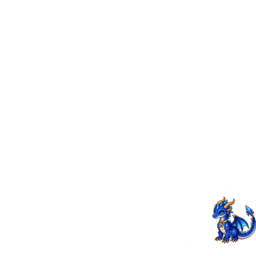
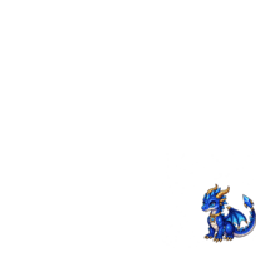
Fix choice questions and add final outfit set

Changed region(s): [[0.7812, 0.7188, 1.0, 0.9688]]

diff --git a/math-practice.js b/math-practice.js
@@ -3,8 +3,8 @@
   const game=document.querySelector('#game-screen');if(!game)return;
   const ID='math-arithmetic',auth=()=>window.StudyVillageAuth?.authHeaders?.()||{},player=()=>document.querySelector('#profile-name')?.textContent?.trim()||'',checkpoint=()=>window.StudyVillageCheckpoint;
   let sessionId='',problems=[],answers=[],index=0,busy=false;
-  const panel=document.createElement('section');panel.className='math-practice-panel';panel.hidden=true;panel.innerHTML='<div class="math-practice-card"><button class="quiz-close" type="button">✕</button><span class="library-badge">➕ 배움터 수학</span><h2>3학년 랜덤 복습</h2><div class="library-status"><span data-progress></span><strong data-unit>랜덤 5문제</strong></div><p class="math-prompt"></p><input class="library-answer-input" type="text" inputmode="numeric" autocomplete="off" placeholder="정답 입력"><p class="library-feedback"></p><div data-review hidden style="display:grid;gap:8px;margin:12px 0;max-height:34vh;overflow:auto"></div><button class="interior-primary" type="button" data-submit>정답 제출</button></div>';game.appendChild(panel);
-  const close=panel.querySelector('.quiz-close'),progress=panel.querySelector('[data-progress]'),unit=panel.querySelector('[data-unit]'),prompt=panel.querySelector('.math-prompt'),input=panel.querySelector('input'),feedback=panel.querySelector('.library-feedback'),review=panel.querySelector('[data-review]'),submit=panel.querySelector('[data-submit]');
+  const panel=document.createElement('section');panel.className='math-practice-panel';panel.hidden=true;panel.innerHTML='<div class="math-practice-card"><button class="quiz-close" type="button">✕</button><span class="library-badge">➕ 배움터 수학</span><h2>3학년 랜덤 복습</h2><div class="library-status"><span data-progress></span><strong data-unit>랜덤 5문제</strong></div><p class="math-prompt"></p><div data-math-options hidden></div><input class="library-answer-input" type="text" inputmode="numeric" autocomplete="off" placeholder="정답 입력"><p class="library-feedback"></p><div data-review hidden style="display:grid;gap:8px;margin:12px 0;max-height:34vh;overflow:auto"></div><button class="interior-primary" type="button" data-submit>정답 제출</button></div>';game.appendChild(panel);
+  const close=panel.querySelector('.quiz-close'),progress=panel.querySelector('[data-progress]'),unit=panel.querySelector('[data-unit]'),prompt=panel.querySelector('.math-prompt'),options=panel.querySelector('[data-math-options]'),input=panel.querySelector('input'),feedback=panel.querySelector('.library-feedback'),review=panel.querySelector('[data-review]'),submit=panel.querySelector('[data-submit]');
   const explorationOpen=()=>document.body.classList.contains('study-expedition-active')||[...document.querySelectorAll('#student-explore-panel,#study-expedition-stage')].some(el=>el&&!el.hidden&&el.getClientRects().length>0);
   async function fetchJson(url,options={}){const controller=new AbortController(),timer=setTimeout(()=>controller.abort(),5000);try{const response=await fetch(url,{...options,headers:{...auth(),...(options.headers||{})},signal:controller.signal}),data=await response.json().catch(()=>({}));if(!response.ok||!data.ok)throw Object.assign(new Error(data.message||data.code||'request-failed'),{code:data.code,message:data.message||data.code});return data}finally{clearTimeout(timer)}}
   function saveCheckpoint(){if(sessionId&&player()&&checkpoint())checkpoint().save(player(),ID,{sessionId,problems,index,answers})}
@@ -12,11 +12,12 @@
   function returnVillage(){panel.hidden=true;window.dispatchEvent(new Event('studyvillage:return-to-village'))}
   function clearReview(){review.hidden=true;review.innerHTML='';panel.querySelectorAll('.math-result-review').forEach(node=>node.remove())}
   function isQr(problem){return problem?.answerFormat==='quotient-remainder'}
+  function isChoice(problem){return problem?.type==='choice'||problem?.answerFormat==='choice'}
   function qrLooksValid(value){return /^-?\d+\s*(?:,\s*|\s+나머지\s+|\s+)\s*-?\d+$/.test(String(value??'').trim().replace(/\s+/g,' '))}
-  function readAnswer(problem){const raw=String(input.value??'').trim();if(isQr(problem)){if(!qrLooksValid(raw))return{ok:false,message:'몫과 나머지를 입력해 주세요. 예) 44, 1'};return{ok:true,value:raw}}const value=Number(raw);if(!Number.isInteger(value)||Math.abs(value)>1000000)return{ok:false,message:'정수를 입력해 주세요.'};return{ok:true,value}}
-  function render(){clearReview();const problem=problems[index];progress.textContent=`${index+1} / ${problems.length}`;unit.textContent=problem?.unit||'3학년 복습';prompt.textContent=problem?.prompt||'';input.hidden=false;input.type='text';input.inputMode=isQr(problem)?'text':'numeric';input.placeholder=isQr(problem)?(problem.inputHint||'예) 44, 1'):'정답 입력';input.value=answers[index]??'';input.disabled=false;submit.disabled=false;submit.textContent=index===problems.length-1?'채점하고 완료':'정답 저장하고 다음';feedback.className='library-feedback';feedback.textContent=isQr(problem)?'몫과 나머지는 쉼표, 공백, “나머지” 표현 모두 사용할 수 있어요.':'';setTimeout(()=>input.focus(),0);saveCheckpoint()}
+  function readAnswer(problem){if(isChoice(problem)){const value=Number(answers[index]);return Number.isInteger(value)&&value>=0&&value<(problem.options?.length||0)?{ok:true,value}:{ok:false,message:'답을 하나 골라 주세요.'}}const raw=String(input.value??'').trim();if(isQr(problem)){if(!qrLooksValid(raw))return{ok:false,message:'몫과 나머지를 입력해 주세요. 예) 44, 1'};return{ok:true,value:raw}}const value=Number(raw);if(!Number.isInteger(value)||Math.abs(value)>1000000)return{ok:false,message:'정수를 입력해 주세요.'};return{ok:true,value}}
+  function render(){clearReview();const problem=problems[index],choice=isChoice(problem);progress.textContent=`${index+1} / ${problems.length}`;unit.textContent=problem?.unit||'3학년 복습';prompt.textContent=problem?.prompt||'';options.replaceChildren();options.hidden=!choice;options.style.cssText=choice?'display:grid;gap:9px;margin:12px 0':'display:none';input.hidden=choice;input.type='text';input.inputMode=isQr(problem)?'text':'numeric';input.placeholder=isQr(problem)?(problem.inputHint||'예) 44, 1'):'정답 입력';input.value=choice?'':(answers[index]??'');input.disabled=false;submit.disabled=choice&&!Number.isInteger(Number(answers[index]));submit.textContent=index===problems.length-1?'채점하고 완료':'정답 저장하고 다음';feedback.className='library-feedback';feedback.textContent=isQr(problem)?'몫과 나머지는 쉼표, 공백, “나머지” 표현 모두 사용할 수 있어요.':'';if(choice){(problem.options||[]).forEach((label,choiceIndex)=>{const button=document.createElement('button');button.type='button';button.className='quiz-option';button.textContent=String(label);button.setAttribute('aria-pressed',String(Number(answers[index])===choiceIndex));button.onclick=()=>{answers[index]=choiceIndex;options.querySelectorAll('button').forEach((node,nodeIndex)=>node.setAttribute('aria-pressed',String(nodeIndex===choiceIndex)));submit.disabled=false;saveCheckpoint()};options.appendChild(button)})}else setTimeout(()=>input.focus(),0);saveCheckpoint()}
   function showReview(rows=[]){const wrong=rows.filter(row=>row&&!row.correct);review.innerHTML='';if(!wrong.length){review.hidden=false;review.innerHTML='<div style="padding:10px;border-radius:12px;background:#eef8ec;font-weight:800">🏆 틀린 문제가 없어요. 모두 정확하게 풀었어요!</div>';return}const title=document.createElement('strong');title.textContent=`틀린 문제 다시 보기 · ${wrong.length}문제`;review.appendChild(title);for(const row of wrong){const card=document.createElement('div');card.style.cssText='padding:10px;border:1px solid #e2e6df;border-radius:12px;background:#fff';const q=document.createElement('b'),mine=document.createElement('div'),answer=document.createElement('div'),why=document.createElement('div');q.textContent=`${row.number}. ${row.prompt}`;mine.textContent=`내 답: ${row.studentAnswer}`;answer.textContent=`정답: ${row.answer}`;why.textContent=`풀이: ${row.explanation||'문제의 수와 단위를 차례로 다시 확인해 보세요.'}`;why.style.marginTop='4px';card.append(q,mine,answer,why);review.appendChild(card)}review.hidden=false}
   async function start(){if(busy||!panel.hidden||explorationOpen())return;busy=true;try{const allowance=await fetchJson('/api/player/me/activity-attempt-status/'+ID);const dailyLimit=Math.max(1,Number(allowance.policy?.limit)||1);if(!allowance.allowed){alert(`오늘의 수학 랜덤 복습 ${dailyLimit}회와 추가 도전권을 모두 사용했어요. 선생님이 추가 도전권을 줄 수 있어요.`);return}unit.textContent=`랜덤 5문제 · 하루 ${dailyLimit}회`;const saved=player()&&checkpoint()?checkpoint().load(player(),ID)?.progress:null;if(saved?.sessionId&&Array.isArray(saved.problems)&&saved.problems.length===5&&confirm(`이전에 풀던 수학 복습을 ${Number(saved.index)+1}번부터 이어갈까요?`)){sessionId=saved.sessionId;problems=saved.problems;answers=Array.isArray(saved.answers)?saved.answers:[];index=Math.max(0,Math.min(4,Number(saved.index)||0))}else{if(saved)clearCheckpoint();const data=await fetchJson('/api/player/me/math-practice/start',{method:'POST'});sessionId=data.sessionId;problems=data.problems;answers=[];index=0}panel.hidden=false;render()}catch(error){alert(error.code==='no-math-playground-unit-enabled'?'선생님이 체크한 수학 단원 중 수학 놀이터에서 자동으로 만들 수 있는 문제가 아직 없어요.':'수학 복습 문제를 준비하지 못했어요. 교실 서버 연결을 확인해 주세요.')}finally{busy=false}}
-  async function next(){if(busy)return;const parsed=readAnswer(problems[index]);if(!parsed.ok)return alert(parsed.message);answers[index]=parsed.value;if(index<problems.length-1){index++;render();return}busy=true;input.disabled=true;submit.disabled=true;feedback.textContent='서버가 정답을 채점하고 있어요.';saveCheckpoint();try{const graded=await fetchJson(`/api/player/me/math-practice/${encodeURIComponent(sessionId)}/answers`,{method:'POST',headers:{'Content-Type':'application/json'},body:JSON.stringify({answers})});const saved=await fetchJson('/api/player/me/activity',{method:'POST',headers:{'Content-Type':'application/json'},body:JSON.stringify({activityId:ID,score:graded.score,submissionId:graded.submissionId})});clearCheckpoint();window.StudyVillageSound?.play('complete');feedback.className='library-feedback success';feedback.textContent=`${graded.total}문제 중 ${graded.correct}문제 정답 · ${graded.score}점 · +${Number(saved.gainedXp)||0} XP`;prompt.textContent='수학 랜덤 복습 완료! 🎉';unit.textContent='틀린 문제는 아래에서 바로 확인해요';input.hidden=true;showReview(Array.isArray(graded.review)?graded.review:[]);submit.disabled=false;submit.textContent='배움터로 돌아가기';submit.onclick=()=>{returnVillage();clearReview();input.hidden=false;submit.onclick=next};window.dispatchEvent(new Event('studyvillage:activity-record-refresh'));window.dispatchEvent(new Event('studyvillage:stars-refresh'))}catch(error){feedback.className='library-feedback error';feedback.textContent=error.code==='math-session-not-found'?'이어하기 시간이 지나 새 문제로 다시 시작해야 해요.':'결과를 저장하지 못했어요. 다시 눌러 주세요.';submit.disabled=false;submit.textContent=error.code==='math-session-not-found'?'새 연습 시작':'채점 다시 시도';if(error.code==='math-session-not-found')submit.onclick=()=>{clearCheckpoint();returnVillage();submit.onclick=next;start()}}finally{busy=false}}
+  async function next(){if(busy)return;const parsed=readAnswer(problems[index]);if(!parsed.ok)return alert(parsed.message);answers[index]=parsed.value;if(index<problems.length-1){index++;render();return}busy=true;input.disabled=true;submit.disabled=true;feedback.textContent='서버가 정답을 채점하고 있어요.';saveCheckpoint();try{const graded=await fetchJson(`/api/player/me/math-practice/${encodeURIComponent(sessionId)}/answers`,{method:'POST',headers:{'Content-Type':'application/json'},body:JSON.stringify({answers})});const saved=await fetchJson('/api/player/me/activity',{method:'POST',headers:{'Content-Type':'application/json'},body:JSON.stringify({activityId:ID,score:graded.score,submissionId:graded.submissionId})});clearCheckpoint();window.StudyVillageSound?.play('complete');feedback.className='library-feedback success';feedback.textContent=`${graded.total}문제 중 ${graded.correct}문제 정답 · ${graded.score}점 · +${Number(saved.gainedXp)||0} XP`;prompt.textContent='수학 랜덤 복습 완료! 🎉';unit.textContent='틀린 문제는 아래에서 바로 확인해요';input.hidden=true;options.style.display='none';showReview(Array.isArray(graded.review)?graded.review:[]);submit.disabled=false;submit.textContent='배움터로 돌아가기';submit.onclick=()=>{returnVillage();clearReview();input.hidden=false;options.style.display='none';submit.onclick=next};window.dispatchEvent(new Event('studyvillage:activity-record-refresh'));window.dispatchEvent(new Event('studyvillage:stars-refresh'))}catch(error){feedback.className='library-feedback error';feedback.textContent=error.code==='math-session-not-found'?'이어하기 시간이 지나 새 문제로 다시 시작해야 해요.':'결과를 저장하지 못했어요. 다시 눌러 주세요.';submit.disabled=false;submit.textContent=error.code==='math-session-not-found'?'새 연습 시작':'채점 다시 시도';if(error.code==='math-session-not-found')submit.onclick=()=>{clearCheckpoint();returnVillage();submit.onclick=next;start()}}finally{busy=false}}
   submit.onclick=next;input.addEventListener('keydown',event=>{if(event.key==='Enter'){event.preventDefault();submit.click()}});close.onclick=()=>{if(!busy){clearReview();input.hidden=false;returnVillage()}};window.addEventListener('studyvillage:open-math-practice',start)
 })();

diff --git a/index.html b/index.html
@@ -6,7 +6,7 @@
     <title>우리 학습마을</title>
     <link rel="stylesheet" href="style.css?v=20260827r11" />
     <link rel="stylesheet" href="avatar-assets.css?v=20260901r6" />
-    <link rel="stylesheet" href="building-interiors.css?v=20260823a" />
+    <link rel="stylesheet" href="building-interiors.css?v=20260902r1" />
     <link rel="stylesheet" href="library-game.css?v=20260828v4" />
     <link rel="stylesheet" href="activity-records.css" />
     <link rel="stylesheet" href="assets/ui-feedback-polish.css?v=20260827a" />
@@ -29,6 +29,6 @@
         <footer class="mobile-controls"><button id="talk-button" class="talk-button">✨ 상호작용</button></footer>
       </section>
     </main>
-    <script src="auth.js?v=20260831r1"></script><script src="error-reporter.js"></script><script src="student-single-session.js"></script><script src="presence.js"></script><script src="live-events.js"></script><script src="data-service.js?v=20260823a"></script><script src="activity-checkpoint.js"></script><script src="activity-gate.js?v=20260828b"></script><script src="sound-effects.js?v=20260827v2"></script><script src="game.js?v=20260828v3"></script><script src="student-session.js?v=20260830r2"></script><script src="avatar-renderer.js?v=20260901heads1"></script><script src="assets/avatar-base-variants-v1.js?v=20260901heads1"></script><script src="assets/avatar-special-outfit-overhaul-v2.js?v=20260830a"></script><script src="assets/avatar-visual-overhaul-v1.js?v=20260830a"></script><script src="assets/avatar-simple-sets-v1.js?v=20260830a"></script><script src="avatar-motion.js"></script><script src="avatar-growth-effects.js?v=20260822c"></script><script src="world-camera.js"></script><script src="village-layout.js?v=20260823a"></script><script src="random-npcs.js"></script><script src="random-exploration-events.js"></script><script src="building-interiors.js?v=20260830a"></script><script src="math-practice.js?v=20260830r4"></script><script src="question-data.js?v=20260825r9"></script><script src="curriculum-question-bank.js?v=20260827v1"></script><script src="assets/curriculum-content-expansion.js?v=20260828v1"></script><script src="question-response.js"></script><script src="assets/student-question-overrides.js?v=20260827v2"></script><script src="library-game.js?v=20260830save1"></script><script src="activity-taxonomy.js"></script><script src="daily-missions.js?v=20260901r2"></script><script src="exploration-collection.js?v=20260901r2"></script><script src="activity-records.js"></script><script src="student-result-profile-sync.js"></script><script src="customize.js?v=20260830r4"></script><script src="assets/avatar-fullbody-fix.js?v=20260826rpg3"></script><script src="assets/avatar-basic-pack-v3.js?v=20260826v3"></script><script src="assets/avatar-secondary-sync-v2.js?v=20260827v4"></script><script src="assets/student-shop-ownership-compat.js?v=20260823a"></script><script src="student-shop.js?v=20260901r7"></script><script src="onboarding.js?v=20260820c"></script><script src="connection-status.js"></script><script src="session-restore.js"></script><script src="assets/expedition-entry-guard.js?v=20260823a"></script><script src="assets/student-exploration-subject-pools.js?v=20260829v7"></script><script src="assets/student-exploration-v2.js?v=20260901r6"></script><script src="assets/student-overlay-manager.js?v=20260828c"></script><script src="assets/student-stability-fixes.js?v=20260830r5"></script><script src="assets/ui-feedback-polish.js?v=20260829c"></script>
+    <script src="auth.js?v=20260831r1"></script><script src="error-reporter.js"></script><script src="student-single-session.js"></script><script src="presence.js"></script><script src="live-events.js"></script><script src="data-service.js?v=20260823a"></script><script src="activity-checkpoint.js"></script><script src="activity-gate.js?v=20260828b"></script><script src="sound-effects.js?v=20260827v2"></script><script src="game.js?v=20260828v3"></script><script src="student-session.js?v=20260830r2"></script><script src="avatar-renderer.js?v=20260902outfits1"></script><script src="assets/avatar-base-variants-v1.js?v=20260901heads1"></script><script src="assets/avatar-special-outfit-overhaul-v2.js?v=20260830a"></script><script src="assets/avatar-visual-overhaul-v1.js?v=20260830a"></script><script src="assets/avatar-simple-sets-v1.js?v=20260830a"></script><script src="avatar-motion.js"></script><script src="avatar-growth-effects.js?v=20260822c"></script><script src="world-camera.js"></script><script src="village-layout.js?v=20260823a"></script><script src="random-npcs.js"></script><script src="random-exploration-events.js"></script><script src="building-interiors.js?v=20260830a"></script><script src="math-practice.js?v=20260902r1"></script><script src="question-data.js?v=20260902r1"></script><script src="curriculum-question-bank.js?v=20260827v1"></script><script src="assets/curriculum-content-expansion.js?v=20260828v1"></script><script src="question-response.js"></script><script src="assets/student-question-overrides.js?v=20260827v2"></script><script src="library-game.js?v=20260830save1"></script><script src="activity-taxonomy.js"></script><script src="daily-missions.js?v=20260901r2"></script><script src="exploration-collection.js?v=20260901r2"></script><script src="activity-records.js"></script><script src="student-result-profile-sync.js"></script><script src="customize.js?v=20260830r4"></script><script src="assets/avatar-fullbody-fix.js?v=20260826rpg3"></script><script src="assets/avatar-basic-pack-v3.js?v=20260826v3"></script><script src="assets/avatar-secondary-sync-v2.js?v=20260827v4"></script><script src="assets/student-shop-ownership-compat.js?v=20260823a"></script><script src="student-shop.js?v=20260902r1"></script><script src="onboarding.js?v=20260820c"></script><script src="connection-status.js"></script><script src="session-restore.js"></script><script src="assets/expedition-entry-guard.js?v=20260823a"></script><script src="assets/student-exploration-subject-pools.js?v=20260829v7"></script><script src="assets/student-exploration-v2.js?v=20260901r6"></script><script src="assets/student-overlay-manager.js?v=20260828c"></script><script src="assets/student-stability-fixes.js?v=20260830r5"></script><script src="assets/ui-feedback-polish.js?v=20260829c"></script>
   </body>
 </html>

diff --git a/avatar-basic-pack-contract-selftest.js b/avatar-basic-pack-contract-selftest.js
@@ -17,6 +17,7 @@ const outfitBake=fs.readFileSync(path.join(root,'scripts/bake-avatar-outfit-v2.p
 const previewBake=fs.readFileSync(path.join(root,'scripts/build-avatar-shop-previews.py'),'utf8');
 const baseBake=fs.readFileSync(path.join(root,'scripts/build-avatar-base-heads.py'),'utf8');
 const variantBake=fs.readFileSync(path.join(root,'scripts/build-avatar-character-variants.py'),'utf8');
+const petBake=fs.readFileSync(path.join(root,'scripts/build-avatar-production-pets.py'),'utf8');
 
 for(const phrase of ['기본 캐릭터 변형 → 한벌 의상 → 효과 → 펫','체육관 / 보건실 / 3-1반 교실 / 급식실','마을 전체 그래픽 리디자인'])assert.ok(direction.includes(phrase),`production direction missing: ${phrase}`);
 for(const phrase of ['별도의 `hair` 상품은 더 이상 만들지 않는다','몸체 크기, 목·어깨 위치, 발 중앙, 캔버스 기준점을 완전히 동일하게 유지'])assert.ok(direction.includes(phrase),`base variant direction missing: ${phrase}`);
@@ -32,7 +33,7 @@ for(const id of ['character-boy-02','character-boy-03','character-boy-04','chara
 }
 for(const retiredHair of ['hair-short','hair-bob','hair-ponytail','hair-blue'])assert.ok(!catalog.includes(`'${retiredHair}'`),`standalone hair product must be retired: ${retiredHair}`);
 assert.ok(whole.includes("id:'student-boy'")&&whole.includes("id:'student-girl'"),'the two free basic bodies must remain');
-assert.ok(index.includes('avatar-renderer.js?v=20260901heads1'),'avatar renderer cache version must be refreshed');
+assert.ok(index.includes('avatar-renderer.js?v=20260902outfits1'),'avatar renderer cache version must include the final feminine outfits and larger pets');
 assert.ok(index.includes('avatar-base-variants-v1.js')&&index.includes('avatar-production-contract-v2.css'),'base production gate and production contract assets must load');
 assert.ok(!index.includes('avatar-auto-normalize-v1.js'),'runtime pixel scanning normalizer must stay disabled for classroom performance');
 assert.ok(contract.includes('transform:none!important'),'production contract must remove manual wearable transform corrections');
@@ -40,11 +41,12 @@ assert.ok(contract.includes('Runtime never scans pixels'),'production runtime mu
 const expected=[
   'production/outfits/silver-knight.png','production/outfits/star-mage.png','production/outfits/school-scientist.png',
   'production/outfits/forest-archer.png','production/outfits/pirate-captain.png','production/outfits/moon-priest.png',
+  'production/outfits/starlight-dress.png','production/outfits/flower-fairy-dress.png','production/outfits/ribbon-magical-girl.png',
   'production/pets/maltese.png','production/pets/toy-poodle.png','production/pets/corgi.png',
   'production/pets/cheese-cat.png','production/pets/lop-rabbit.png','production/pets/baby-dragon.png'
 ];
 for(const rel of expected){const full=path.join(root,'assets/avatar-runtime',rel);assert.ok(fs.existsSync(full),`missing production raster: ${rel}`);assert.ok(fs.statSync(full).size>3000,`production raster is unexpectedly small: ${rel}`);assert.ok(renderer.includes(rel),`renderer missing production raster: ${rel}`)}
-for(const name of ['silver-knight.png','star-mage.png','school-scientist.png','forest-archer.png','pirate-captain.png','moon-priest.png']){
+for(const name of ['silver-knight.png','star-mage.png','school-scientist.png','forest-archer.png','pirate-captain.png','moon-priest.png','starlight-dress.png','flower-fairy-dress.png','ribbon-magical-girl.png']){
   const rel=`production/shop-previews/${name}`,full=path.join(root,'assets/avatar-runtime',rel);
   assert.ok(fs.existsSync(full)&&fs.statSync(full).size>3000,`missing baked one-layer shop preview: ${rel}`);
 }
@@ -64,6 +66,7 @@ assert.ok(outfitBake.includes('Never split or non-uniformly warp a finished outf
 assert.ok(outfitBake.includes('def normalize_uniform_body_scale'),'production bake must use one seam-free uniform template fit');
 assert.ok(!outfitBake.includes("img.crop((0, source_y"),'production bake must not split completed outfit artwork at the neckline');
 assert.ok(outfitBake.includes('SOURCE_OUTFIT_DIR'),'production bake must always rebuild from immutable source art');
+assert.ok(petBake.includes('SOURCE_DIR')&&petBake.includes('SCALE = 1.25'),'production pets must rebuild from preserved originals at the approved larger scale');
 assert.ok(outfitBake.includes('step = round(TARGET_BODY_CENTROID - current_x)'),'mass-production bake must normalize X automatically');
 for(const itemSpecific of ['SOURCE_X_ADJUST','NECKLINE_RAISE'])assert.ok(!outfitBake.includes(itemSpecific),`item-specific correction must not remain: ${itemSpecific}`);
 assert.ok(!fs.existsSync(path.join(root,'server/avatar-shop-pack-v5.js')),'temporary v5 catalog must be removed');
@@ -73,6 +76,6 @@ assert.ok(shop.includes("SELECT level,stars,base_character"),'shop state must ex
 assert.ok(shop.includes('baseCharacter'),'shop state must return the equipped base character');
 assert.ok(studentShop.includes('paintProductPreview(b,item,data.baseCharacter)'),'outfit previews must use the student\'s equipped male/female head');
 assert.ok(studentShop.includes("renderer.BASES?.[baseCharacter]?baseCharacter:'student-boy'"),'shop preview must safely normalize its base character');
-assert.ok(index.includes('student-shop.js?v=20260901r7'),'female outfit preview change must bypass classroom cache');
+assert.ok(index.includes('student-shop.js?v=20260902r1'),'female outfit preview and new catalog icons must bypass classroom cache');
 assert.ok(customize.includes("info.slot==='character'"),'wardrobe must retain future base-character immediate equip support');
 console.log('production avatar lightweight runtime contract passed');

diff --git a/avatar-renderer.js b/avatar-renderer.js
@@ -56,7 +56,8 @@ window.StudyVillageAvatar=(()=>{
     'hand-sword':{src:`${RPG}hand-star-sword-rpg-v7.png`,alt:'별보석 모험가 검'},'hand-wand':{src:`${RPG}hand-starlight-wand-rpg-v8.png`,alt:'별빛 수정 지팡이'},'hand-book':{svg:hand('book','#315f91')},'hand-magnifier':{svg:hand('magnifier','#294f79')},
     'pet-chick':{svg:pet('chick','#f4d544')},'pet-cat':{svg:pet('cat','#e59a43')},'pet-owl':{svg:pet('owl','#9a6d45')},'pet-fox':{svg:pet('fox','#e47739')},'pet-dog':{svg:pet('dog','#b87946')},'pet-rabbit':{svg:pet('rabbit','#eee5df')},'pet-dragon':{src:`${RPG}pet-star-dragon-rpg-v8.png`,alt:'별무늬 꼬마 용 친구'},'pet-slime':{svg:pet('slime','#63c67a')},
     'outfit-silver-knight':{src:`${RPG}production/outfits/silver-knight.png`,onePiece:true,alt:'은빛 수호 기사 한벌 의상'},'outfit-star-mage-production':{src:`${RPG}production/outfits/star-mage.png`,onePiece:true,alt:'별자리 마법사 한벌 의상'},'outfit-school-scientist':{src:`${RPG}production/outfits/school-scientist.png`,onePiece:true,alt:'푸른빛 과학자 한벌 의상'},'outfit-forest-archer-production':{src:`${RPG}production/outfits/forest-archer.png`,onePiece:true,alt:'초록 숲 궁수 한벌 의상'},'outfit-pirate-captain-production':{src:`${RPG}production/outfits/pirate-captain.png`,onePiece:true,alt:'붉은 해적 선장 한벌 의상'},'outfit-moon-priest-production':{src:`${RPG}production/outfits/moon-priest.png`,onePiece:true,alt:'달빛 사제 한벌 의상'},
-    'pet-maltese-production':{src:`${RPG}production/pets/maltese.png`,alt:'하얀 말티즈'},'pet-toy-poodle-production':{src:`${RPG}production/pets/toy-poodle.png`,alt:'살구 토이푸들'},'pet-corgi-production':{src:`${RPG}production/pets/corgi.png`,alt:'통통 웰시코기'},'pet-cheese-cat-production':{src:`${RPG}production/pets/cheese-cat.png`,alt:'치즈 줄무늬 고양이'},'pet-lop-rabbit-production':{src:`${RPG}production/pets/lop-rabbit.png`,alt:'크림 롭이어 토끼'},'pet-baby-dragon-production':{src:`${RPG}production/pets/baby-dragon.png`,alt:'사파이어 꼬마 용'}
+    'outfit-starlight-dress-production':{src:`${RPG}production/outfits/starlight-dress.png`,onePiece:true,alt:'별빛 드레스 한벌 의상'},'outfit-flower-fairy-production':{src:`${RPG}production/outfits/flower-fairy-dress.png`,onePiece:true,alt:'꽃요정 원피스 한벌 의상'},'outfit-ribbon-magical-girl-production':{src:`${RPG}production/outfits/ribbon-magical-girl.png`,onePiece:true,alt:'리본 마법소녀 한벌 의상'},
+    'pet-maltese-production':{src:`${RPG}production/pets/maltese.png?v=20260902large1`,alt:'하얀 말티즈'},'pet-toy-poodle-production':{src:`${RPG}production/pets/toy-poodle.png?v=20260902large1`,alt:'살구 토이푸들'},'pet-corgi-production':{src:`${RPG}production/pets/corgi.png?v=20260902large1`,alt:'통통 웰시코기'},'pet-cheese-cat-production':{src:`${RPG}production/pets/cheese-cat.png?v=20260902large1`,alt:'치즈 줄무늬 고양이'},'pet-lop-rabbit-production':{src:`${RPG}production/pets/lop-rabbit.png?v=20260902large1`,alt:'크림 롭이어 토끼'},'pet-baby-dragon-production':{src:`${RPG}production/pets/baby-dragon.png?v=20260902large1`,alt:'사파이어 꼬마 용'}
   };
   function paint(element,spec){if(!element)return;element.replaceChildren();element.classList.toggle('image-asset',!!spec?.src);element.classList.toggle('svg-asset',!!spec?.svg);if(spec?.svg)element.innerHTML=spec.svg;else if(spec?.src){const img=document.createElement('img');img.src=spec.src;img.alt=spec.alt||'';img.draggable=false;element.appendChild(img)}else element.textContent=spec?.emoji||''}
   function base(id='student-default'){return BASES[id]||BASES['student-default']}

diff --git a/building-interiors.css b/building-interiors.css
@@ -1,1 +1,4 @@
 #building-interior{position:absolute;inset:64px 0 0;z-index:90;background:linear-gradient(#f8efd8,#ead8b4);display:grid;place-items:center;padding:24px}#building-interior[hidden]{display:none}.interior-room{position:relative;width:min(760px,92vw);min-height:480px;padding:42px;text-align:center;border:10px solid #fff;border-radius:36px;background:#fffaf0;box-shadow:0 24px 60px #233a2840;overflow:hidden}.interior-room:before{content:"";position:absolute;left:0;right:0;bottom:0;height:110px;background:repeating-linear-gradient(90deg,#d7b47b 0 60px,#e1c18e 60px 120px);z-index:0}.interior-room>*{position:relative;z-index:1}.interior-exit{position:absolute;left:22px;top:22px;border:0;border-radius:14px;padding:10px 14px;background:#e8f2e1;color:#315d3b;font-weight:900;cursor:pointer}.interior-icon{font-size:92px;margin-top:25px}.interior-label{display:inline-block;margin-top:8px;padding:5px 10px;border-radius:999px;background:#8d7bd1;color:white;font-size:12px;font-weight:900}.interior-room h2{margin:12px 0 8px;font-size:38px;color:#3f5d42}.interior-room p{font-weight:700;color:#637065}.interior-primary{margin-top:18px;border:0;border-radius:18px;padding:16px 24px;background:#ffcc4d;color:#573e00;font-size:20px;font-weight:900;cursor:pointer;box-shadow:0 6px 0 #d99d18}.interior-coming{display:inline-block;margin-top:18px;padding:12px 16px;border-radius:15px;background:#f1f5ef}.interior-decor{display:flex;justify-content:space-around;margin-top:52px;font-size:42px}.math-practice-panel{position:fixed;inset:0;z-index:260;display:grid;place-items:center;padding:16px;background:#24362975;backdrop-filter:blur(3px);overflow:auto}.math-practice-panel[hidden]{display:none}.math-practice-card{position:relative;width:min(560px,92vw);max-height:calc(100dvh - 32px);overflow:auto;padding:30px;border:6px solid #fff;border-radius:28px;background:#fffdf4;box-shadow:0 22px 55px #1f35264d}.math-practice-card>.quiz-close{position:absolute;right:20px;top:20px}.math-practice-card h2{color:#315d3b}.math-prompt{text-align:center;font-size:clamp(36px,8vw,62px);font-weight:1000;color:#473d7a}.math-practice-card .library-answer-input{width:100%;box-sizing:border-box;font-size:28px;text-align:center}.mobile-controls{display:none!important}.near-building-interaction #interaction-hint{opacity:0}@media(max-width:700px),(pointer:coarse){#building-interior{inset:56px 0 0;padding:10px}.interior-room{min-height:360px;padding:30px 18px}.interior-icon{font-size:68px}.interior-room h2{font-size:30px}.interior-decor{margin-top:30px;font-size:30px}.math-practice-panel{padding:8px;align-items:start}.math-practice-card{width:min(620px,96vw);max-height:calc(100dvh - 16px);padding:20px 16px}.math-practice-card h2{margin:8px 48px 10px 0;font-size:24px}.math-prompt{margin:12px 0;font-size:clamp(30px,7vw,48px)}}
+/* Math choice questions use the same large tap target as exploration quizzes. */
+[data-math-options] .quiz-option{width:100%;padding:13px 15px;text-align:left;border:3px solid #e5e0f8;border-radius:15px;background:#fff;color:#3d356b;font-weight:900;cursor:pointer}
+[data-math-options] .quiz-option[aria-pressed="true"]{border-color:#73b85e;background:#e9f7e5;color:#295c34;box-shadow:0 0 0 2px #cce8c4}

diff --git a/student-shop.js b/student-shop.js
@@ -1,7 +1,7 @@
 /* v1.15 student star shop: base character / one-piece outfit / effect / pet production categories. */
 (()=>{
   const game=document.querySelector('#game-screen'),shopButton=document.querySelector('#shop-button');if(!game||!shopButton)return;
-  const icons={'character-boy-02':'👦','character-boy-03':'👦','character-boy-04':'👦','character-boy-05':'👦','character-girl-02':'👧','character-girl-03':'👧','character-girl-04':'👧','character-girl-05':'👧','outfit-silver-knight':'🛡','outfit-star-mage-production':'🪄','outfit-school-scientist':'🔬','outfit-forest-archer-production':'🏹','outfit-pirate-captain-production':'🏴☠','outfit-moon-priest-production':'🌙','pet-maltese-production':'🐶','pet-toy-poodle-production':'🐩','pet-corgi-production':'🐶','pet-cheese-cat-production':'🐱','pet-lop-rabbit-production':'🐰','pet-baby-dragon-production':'🐲','aurora-effect':'🌈','candy':'🍬','stationery':'✏'};
+  const icons={'character-boy-02':'👦','character-boy-03':'👦','character-boy-04':'👦','character-boy-05':'👦','character-girl-02':'👧','character-girl-03':'👧','character-girl-04':'👧','character-girl-05':'👧','outfit-silver-knight':'🛡','outfit-star-mage-production':'🪄','outfit-school-scientist':'🔬','outfit-forest-archer-production':'🏹','outfit-pirate-captain-production':'🏴☠','outfit-moon-priest-production':'🌙','outfit-starlight-dress-production':'🌟','outfit-flower-fairy-production':'🌸','outfit-ribbon-magical-girl-production':'🎀','pet-maltese-production':'🐶','pet-toy-poodle-production':'🐩','pet-corgi-production':'🐶','pet-cheese-cat-production':'🐱','pet-lop-rabbit-production':'🐰','pet-baby-dragon-production':'🐲','aurora-effect':'🌈','candy':'🍬','stationery':'✏'};
   const headers=()=>window.StudyVillageAuth?.authHeaders?.()||{};
   const esc=v=>String(v??'').replace(/[&<>"']/g,c=>({'&':'&amp;','<':'&lt;','>':'&gt;','"':'&quot;',"'":'&#39;'}[c]));
   const REQUEST_TIMEOUT_MS=5000;

diff --git a/math-practice-server-validation-contract-selftest.js b/math-practice-server-validation-contract-selftest.js
@@ -18,6 +18,8 @@ assert.ok(server.includes('몫과 나머지는?')&&server.includes("answerFormat
 for(const token of ["44, 1","나머지\\s+","answerFormat==='quotient-remainder'",'gradeProblem(problem,value)'])assert.ok(server.includes(token),`remainder normalization contract missing ${token}`);
 assert.ok(!server.includes('44.333'),'decimal quotient must not become the remainder answer convention');
 assert.ok(client.includes("problem?.answerFormat==='quotient-remainder'")&&client.includes('몫과 나머지를 입력해 주세요. 예) 44, 1'),'math playground must switch to quotient/remainder input guidance');
+assert.ok(client.includes("problem?.type==='choice'||problem?.answerFormat==='choice'")&&client.includes("problem.options||[]"),'choice math problems must render their server-issued answer options');
+assert.ok(client.includes("답을 하나 골라 주세요.")&&client.includes("answers[index]=choiceIndex"),'choice math answers must save a selected option index instead of requiring an integer text answer');
 assert.ok(client.includes('내 답: ${row.studentAnswer}')&&client.includes('정답: ${row.answer}'),'wrong-answer review must use server review values for both student and correct answers');
 assert.ok(explore.includes("q.answerFormat==='quotient-remainder'")&&explore.includes('body:JSON.stringify({index,answer})'),'exploration intermediate math check must pass the same raw remainder answer to the server');
 assert.ok(explore.includes("q.type==='choice'")&&server.includes('withExplorationRiddle')&&server.includes('Math.random()>=.1'),'math exploration riddles must be issued and scored by the server at a low probability');

diff --git a/question-input-type-contract-selftest.js b/question-input-type-contract-selftest.js
@@ -3,7 +3,8 @@ const assert=require('assert');
 const data=fs.readFileSync('question-data.js','utf8'),client=fs.readFileSync('library-game.js','utf8'),rules=fs.readFileSync('question-response.js','utf8'),history=fs.readFileSync('server/question-history.js','utf8'),routes=fs.readFileSync('server/question-overrides.js','utf8');
 assert.ok(data.includes("type:'input'"),'bundled learning content must exercise the input question path');
 assert.ok(data.includes("acceptedAnswers:['뿌듯','뿌듯하다','뿌듯한']"),'input questions must accept the stem and clearly shown word forms');
-assert.ok(data.includes("answerGuide:'어간이나 기본형 모두 정답으로 인정해요.'"),'input vocabulary questions must explain the accepted answer form');
+assert.ok(data.includes("answerGuide:'낱말의 기본형이나 자연스러운 활용형으로 써도 돼요.'"),'input vocabulary questions must explain accepted forms without revealing the answer');
+assert.ok(!data.includes('「뿌듯」 또는 「뿌듯하다」'),'the question prompt must never expose its own accepted answer');
 assert.ok(rules.includes("trim().replace(/\\s+/g,' ').toLocaleLowerCase('ko-KR')"),'typed answers must normalize surrounding/repeated spaces and case');
 assert.ok(client.includes("if(item.type==='input')"),'Bookmaru must render input questions separately from choices');
 assert.ok(client.includes("event.key==='Enter'"),'tablet/keyboard Enter must submit a typed answer');

diff --git a/question-data.js b/question-data.js
@@ -10,7 +10,7 @@
       questions:[
         {category:'어휘',word:'다정하다',options:['정이 많고 친절하다','매우 빠르다','소리가 크다','마음이 급하다'],answer:0},
         {category:'어휘',word:'망설이다',options:['바로 행동하다','결정하지 못하고 주저하다','기뻐서 웃다','조용히 기다리다'],answer:1},
-        {category:'어휘',type:'input',word:'보람을 느껴 매우 기쁜 마음을 나타내는 낱말은? (「뿌듯」 또는 「뿌듯하다」처럼 써도 돼요.)',answerGuide:'어간이나 기본형 모두 정답으로 인정해요.',acceptedAnswers:['뿌듯','뿌듯하다','뿌듯한']},
+        {category:'어휘',type:'input',word:'보람을 느껴 매우 기쁜 마음을 나타내는 낱말은?',answerGuide:'낱말의 기본형이나 자연스러운 활용형으로 써도 돼요.',acceptedAnswers:['뿌듯','뿌듯하다','뿌듯한']},
         {category:'어휘',word:'살피다',options:['주의 깊게 자세히 보다','큰 소리로 부르다','빨리 달리다','잠깐 쉬다'],answer:0},
         {category:'어휘',word:'격려하다',options:['잘못을 꾸짖다','힘내도록 용기와 힘을 북돋우다','모르는 척하다','혼자 해결하다'],answer:1}
       ]

diff --git a/server/avatar-shop-pack-v3.js b/server/avatar-shop-pack-v3.js
@@ -5,6 +5,9 @@ const productionItems={
   'outfit-forest-archer-production':{name:'초록 숲 궁수 세트',slot:'outfit',price:52},
   'outfit-pirate-captain-production':{name:'붉은 해적 선장 세트',slot:'outfit',price:55},
   'outfit-moon-priest-production':{name:'달빛 사제 세트',slot:'outfit',price:58},
+  'outfit-starlight-dress-production':{name:'별빛 드레스 세트',slot:'outfit',price:55},
+  'outfit-flower-fairy-production':{name:'꽃요정 원피스 세트',slot:'outfit',price:52},
+  'outfit-ribbon-magical-girl-production':{name:'리본 마법소녀 세트',slot:'outfit',price:58},
   'pet-maltese-production':{name:'하얀 말티즈',slot:'pet',price:35},
   'pet-toy-poodle-production':{name:'살구 토이푸들',slot:'pet',price:38},
   'pet-corgi-production':{name:'통통 웰시코기',slot:'pet',price:38},

diff --git a/scripts/build-avatar-production-pets.py b/scripts/build-avatar-production-pets.py
@@ -1,0 +1,36 @@
+from pathlib import Path
+
+from PIL import Image
+
+
+ROOT = Path(__file__).resolve().parents[1]
+RUNTIME = ROOT / "assets" / "avatar-runtime" / "production"
+SOURCE_DIR = RUNTIME / "sources" / "pets"
+OUTPUT_DIR = RUNTIME / "pets"
+FILES = ["maltese.png", "toy-poodle.png", "corgi.png", "cheese-cat.png", "lop-rabbit.png", "baby-dragon.png"]
+MASTER = 256
+SCALE = 1.25
+RIGHT_MARGIN = 0
+BOTTOM_MARGIN = 8
+
+
+def main() -> None:
+    OUTPUT_DIR.mkdir(parents=True, exist_ok=True)
+    for name in FILES:
+        source = Image.open(SOURCE_DIR / name).convert("RGBA")
+        box = source.getchannel("A").getbbox()
+        if not box:
+            raise RuntimeError(f"{name}: missing visible pet pixels")
+        pet = source.crop(box)
+        size = (round(pet.width * SCALE), round(pet.height * SCALE))
+        pet = pet.resize(size, Image.Resampling.NEAREST)
+        x = MASTER - RIGHT_MARGIN - pet.width
+        y = MASTER - BOTTOM_MARGIN - pet.height
+        output = Image.new("RGBA", (MASTER, MASTER), (0, 0, 0, 0))
+        output.alpha_composite(pet, (x, y))
+        output.save(OUTPUT_DIR / name, "PNG", optimize=True)
+        print(f"{name}: {box[2]-box[0]}x{box[3]-box[1]} -> {pet.width}x{pet.height}, anchor=({x},{y})")
+
+
+if __name__ == "__main__":
+    main()

diff --git a/scripts/build-avatar-shop-previews.py b/scripts/build-avatar-shop-previews.py
@@ -8,12 +8,15 @@ RUNTIME = ROOT / "assets" / "avatar-runtime"
 OUTFIT_DIR = RUNTIME / "production" / "outfits"
 PREVIEW_DIR = RUNTIME / "production" / "shop-previews"
 FILES = [
+    "flower-fairy-dress.png",
     "forest-archer.png",
     "moon-priest.png",
     "pirate-captain.png",
     "school-scientist.png",
     "silver-knight.png",
     "star-mage.png",
+    "starlight-dress.png",
+    "ribbon-magical-girl.png",
 ]
 # The outfit owns the neckline from Y=89. Keep the base head above it only.
 HEAD_BOTTOM = 89
